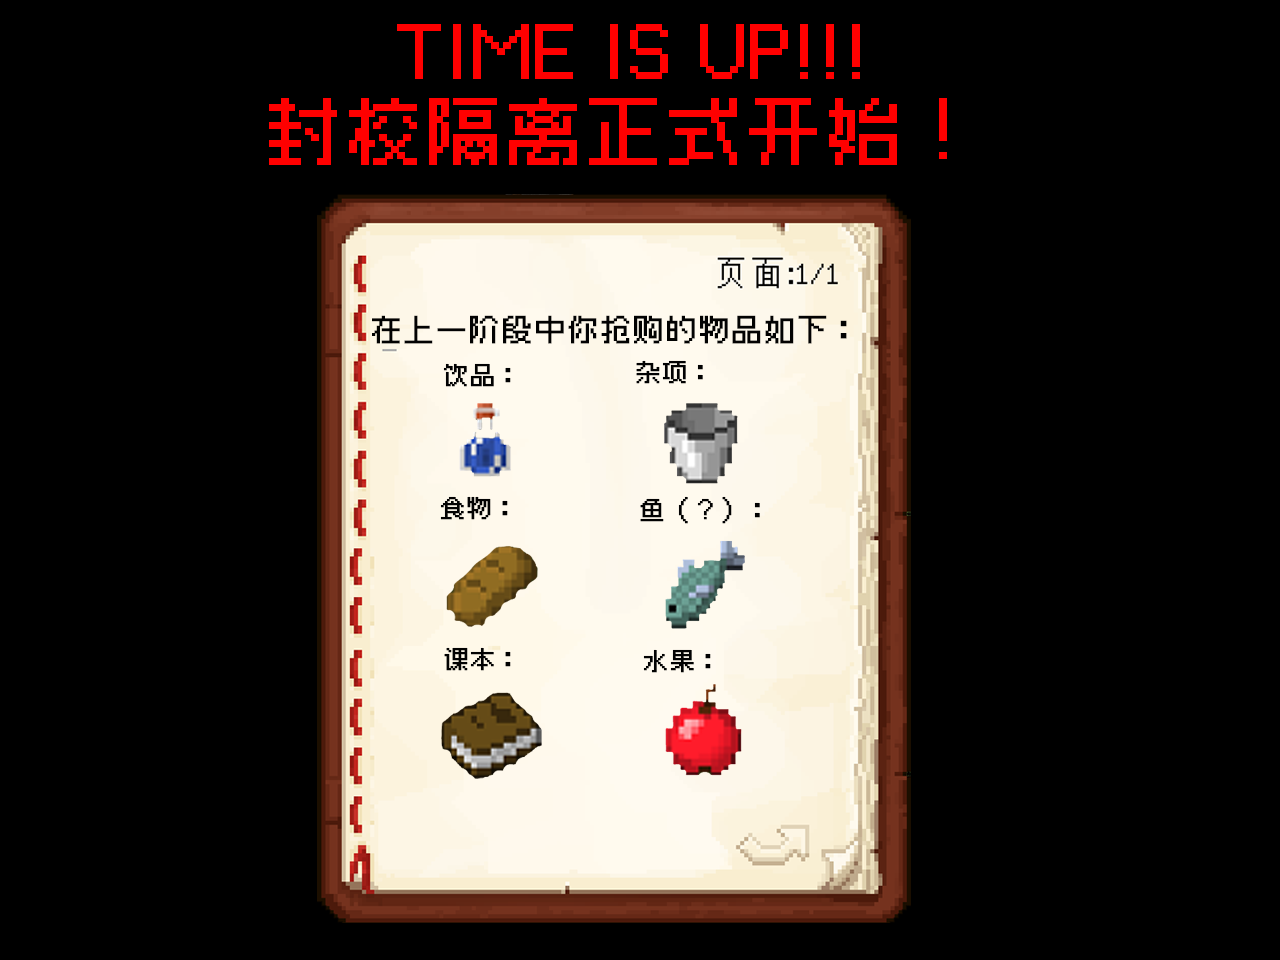
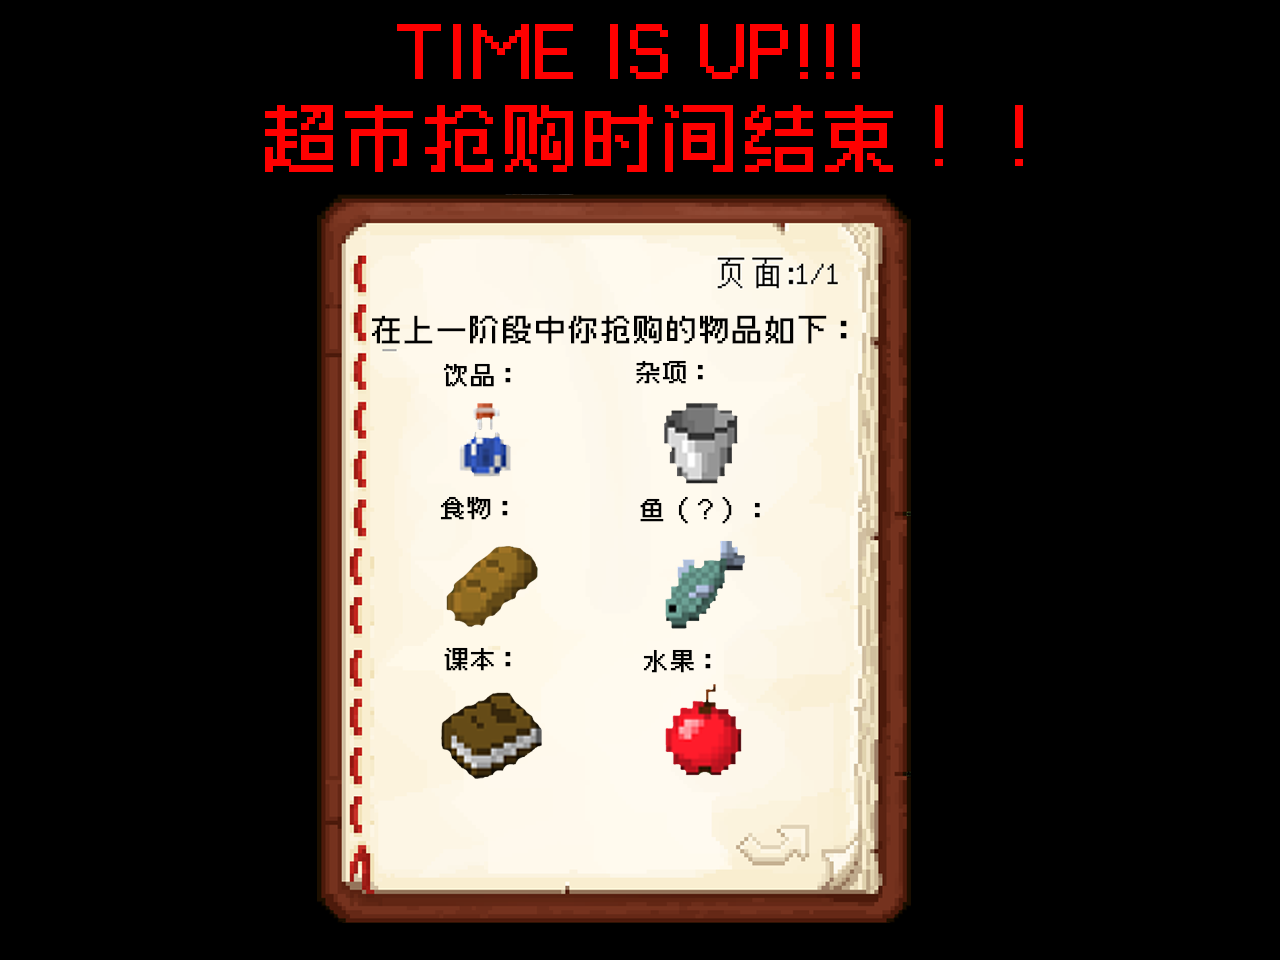
优化超市采购部分

Changed region(s): [[0.1875, 0.0938, 0.75, 0.1875], [0.7812, 0.125, 0.8125, 0.1562]]

diff --git a/source/dormitory.py b/source/dormitory.py
@@ -826,9 +826,9 @@ class Dormitory:
                                 save = save + str(now_item[i][j])+" "
                         save = save + str(now_item[4])+" "
                         save = save + str(now_item[5])+" "
-                        save = save + str(day)
-                        save = save + str(cat_run)
-                        save = save + str(rolltimes)
+                        save = save + str(day)+" "
+                        save = save + str(cat_run)+" "
+                        save = save + str(rolltimes)+" "
                         f.write(save)
                     
             openevent.text = "事件余"+str(resteve)
@@ -869,12 +869,12 @@ class Dormitory:
                 now_event.tipstime -= 2
 
             
-            #testpart
-            buttons = pygame.mouse.get_pressed()
-            pos = pygame.mouse.get_pos()            
-            text0 = "mouse position: " + str(pos)
-            text0_surface = testfont.render(text0, True, (255, 0, 0))
-            self.blit(text0_surface, (10, 50))
+            # #testpart
+            # buttons = pygame.mouse.get_pressed()
+            # pos = pygame.mouse.get_pos()            
+            # text0 = "mouse position: " + str(pos)
+            # text0_surface = testfont.render(text0, True, (255, 0, 0))
+            # self.blit(text0_surface, (10, 50))
             
         #刷新屏幕
             pygame.display.flip()

diff --git a/source/supermarket.py b/source/supermarket.py
@@ -642,7 +642,7 @@ class Supermarket:
                 TextRect.center = (640, 380)
                 self.blit(TextSurf, TextRect)
         #绘制倒计时
-            clock_g = "距离封校隔离还有"+str(clock_)+"s"
+            clock_g = "距离采购结束还有"+str(clock_)+"s"
             TextSurf, TextRect = text_objects(clock_g, font, (255,0,0))
             TextRect.center = (640, 75)
             self.blit(TextSurf, TextRect)
